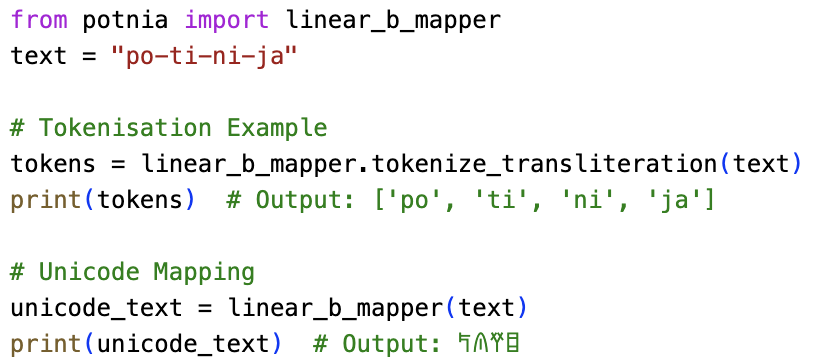
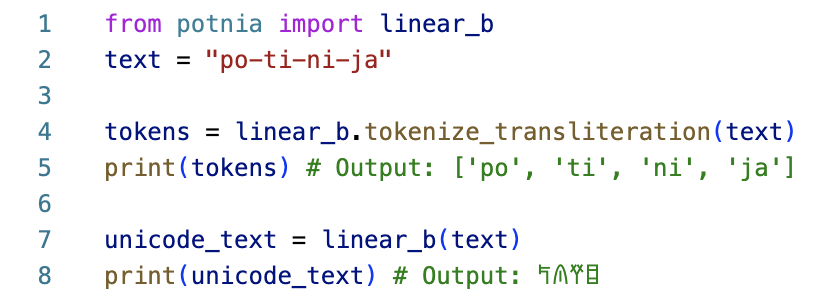
:abc: updating example in paper

diff --git a/potnia/main.py b/potnia/main.py
@@ -100,7 +100,7 @@ def potnia():
 
 
 @app.command()    
-def gui(ctx: typer.Context):    
+def gui(ctx: typer.Context, share:bool=False):    
     """ Launches the Potnia GUI. """
     from guigaga.themes import Theme
     from guigaga.guigaga import GUIGAGA    
@@ -110,5 +110,6 @@ def gui(ctx: typer.Context):
         theme=Theme.monochrome,
         allow_file_download=False,
     )
+    breakpoint()
     gui.launch()    
 

diff --git a/potnia/script.py b/potnia/script.py
@@ -52,7 +52,6 @@ class Script():
         return list(text)
 
     def tokenize_transliteration(self, text:str) -> list[str]:
-        print("Reached")
         # Replace complex symbols with placeholders
         for symbol, placeholder in self.complex_symbols.items():
             text = text.replace(symbol, placeholder)

diff --git a/example.py b/example.py
@@ -1,0 +1,10 @@
+from potnia import linear_b
+text = "po-ti-ni-ja"
+
+tokens = linear_b.tokenize_transliteration(text)
+print(tokens) # Output: ['po', 'ti', 'ni', 'ja']
+
+unicode_text = linear_b(text)
+print(unicode_text) # Output: 𐀡𐀴𐀛𐀊
+
+

diff --git a/paper.md b/paper.md
@@ -76,7 +76,7 @@ Each script in Potnia (e.g., Linear A, Linear B, Arabic, Hittite cuneiform) is c
 
 2. **Tokenization:** The `tokenize_transliteration` method applies complex symbol replacements and regular expressions to transliterated text based on the rules specified in the YAML file. This tokenization process ensures that the text is split accurately into its meaningful components, handling special symbols and spacing using placeholders, and preparing the text for Unicode conversion.
 
-3. **Transliteration to Unicode:** Potnia uses the `to_unicode` method to convert the transliterated text to its Unicode representation (fig. \ref{fig:potnia-example}).
+3. **Transliteration to Unicode:** Potnia uses the `__call__` method to convert the transliterated text to its Unicode representation (fig. \ref{fig:potnia-example}).
 
 ![Example of using Potnia.\label{fig:potnia-example}](docs/_static/img/potnia-example.png){ width=80% }
 
